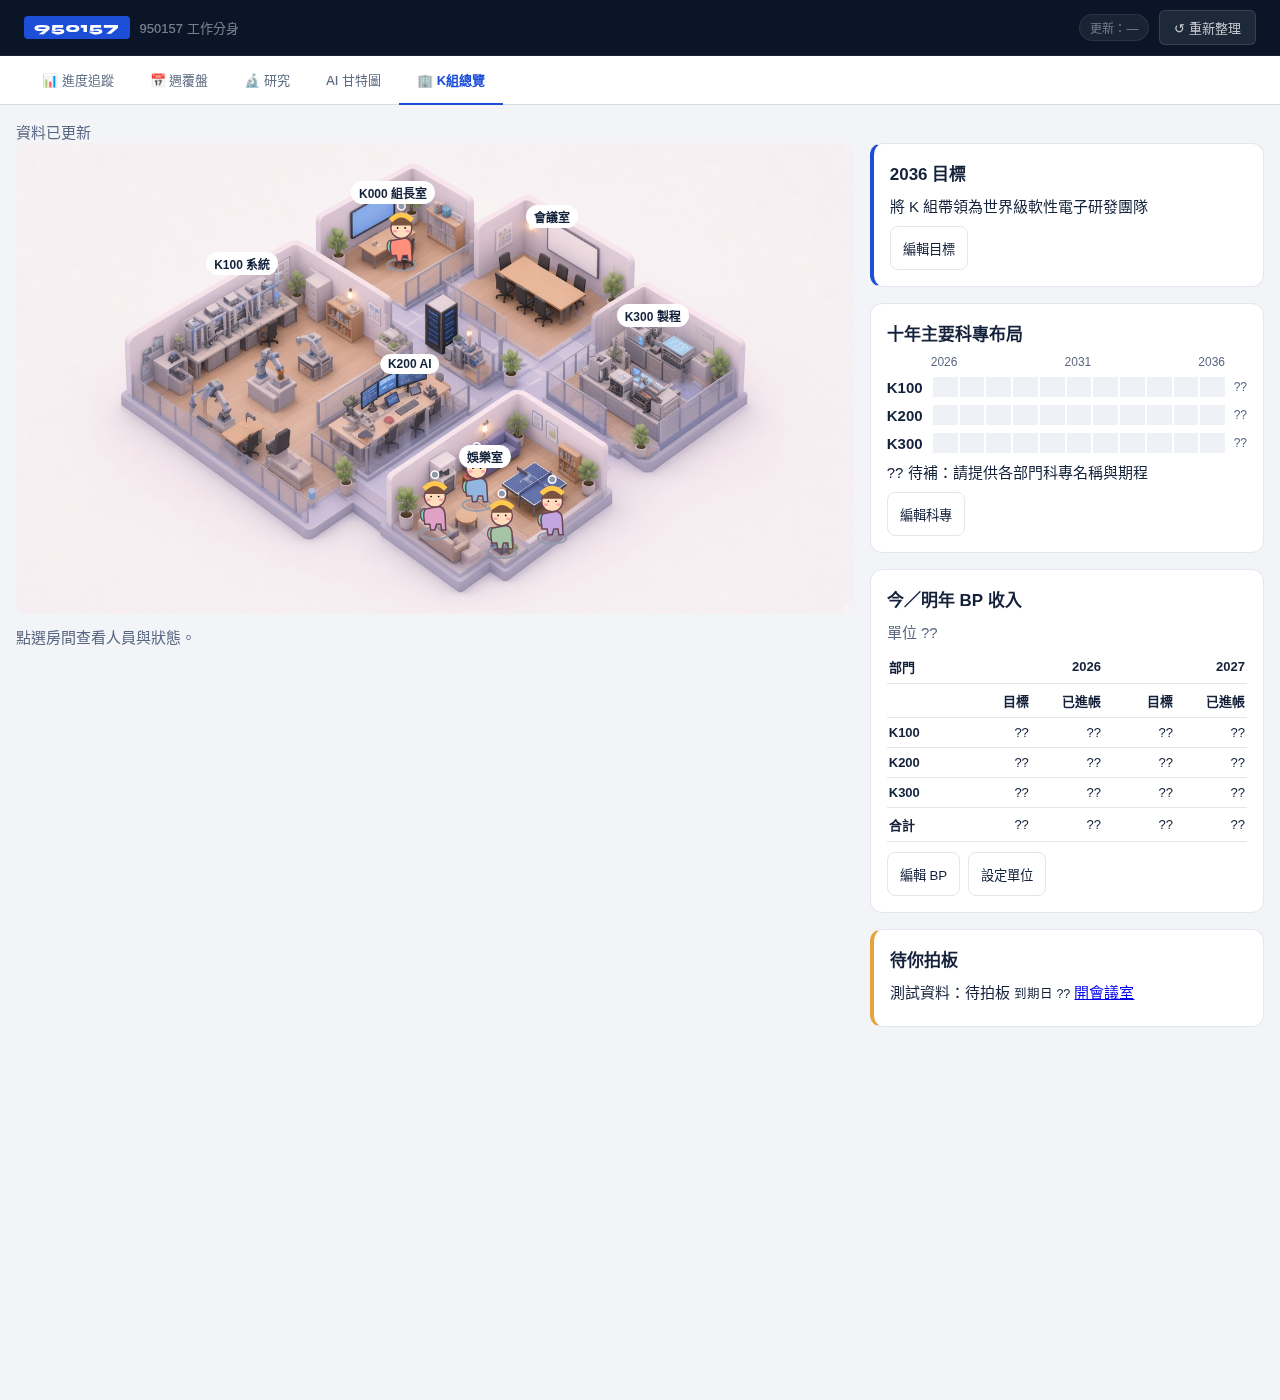
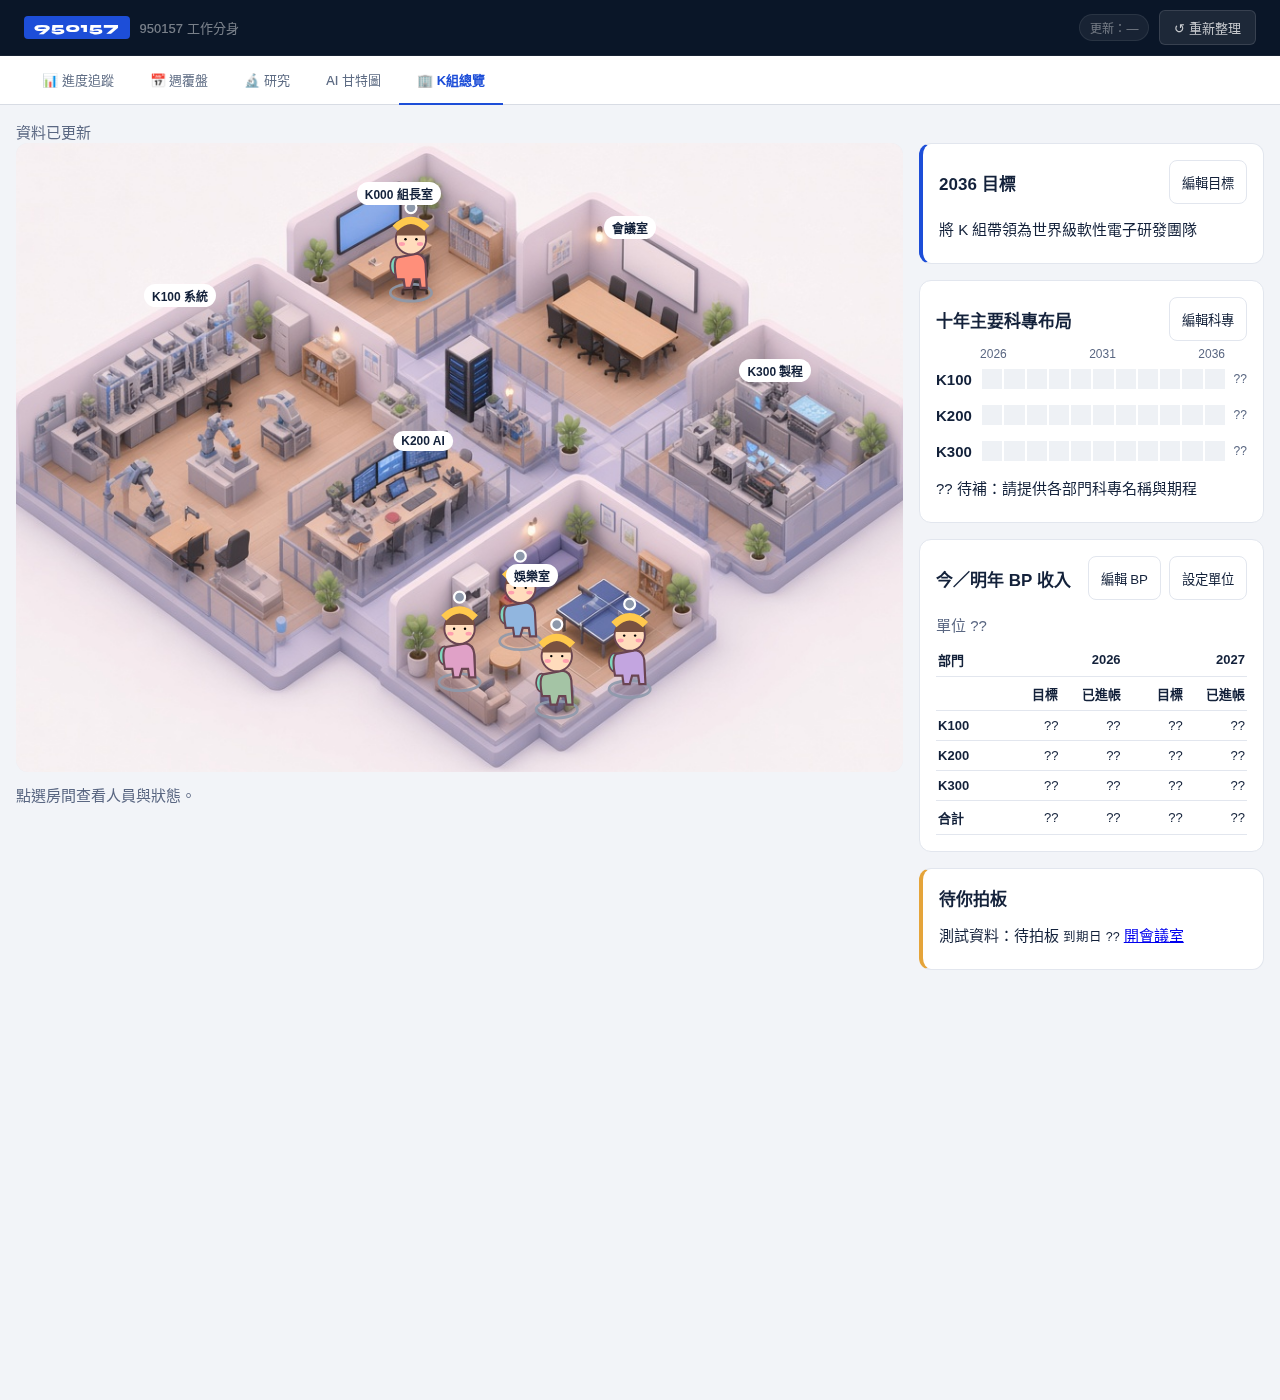
K組總覽頁：放大辦公室（裁掉底圖空白、左欄 72%、卡片按鈕移到標題列、手機滿寬）

diff --git a/public/koffice-950157.css b/public/koffice-950157.css
@@ -1,7 +1,7 @@
 #tab-koffice{overflow:auto;background:var(--hy-bg);color:var(--hy-ink)}
 #koffice{padding:16px;font-size:var(--hy-fs-body)}
-.ko-grid{display:grid;grid-template-columns:minmax(0,68fr) minmax(320px,32fr);gap:var(--hy-gap);align-items:start}
-.ko-office{min-width:0}.ko-stage{position:relative;width:100%;aspect-ratio:16/9;overflow:hidden;border-radius:var(--hy-r-card);background:var(--hy-sunken)}
+.ko-grid{display:grid;grid-template-columns:minmax(0,72fr) minmax(320px,28fr);gap:var(--hy-gap);align-items:start}
+.ko-office{min-width:0}.ko-stage{position:relative;width:100%;overflow:hidden;border-radius:var(--hy-r-card);background:var(--hy-sunken)}
 .ko-stage img{width:100%;height:100%;object-fit:contain;display:block}.ko-overlay{position:absolute;inset:0;width:100%;height:100%}
 .ko-room{fill:transparent;stroke:transparent;cursor:pointer;outline:none}.ko-room:focus-visible,.ko-room:hover{stroke:var(--hy-brand);stroke-width:.5;fill:var(--hy-ai-bg);fill-opacity:.18}
 .ko-label{position:absolute;transform:translate(-50%,-100%);border-radius:var(--hy-r-pill);padding:3px 8px;background:var(--hy-surface);color:var(--hy-ink);font-size:12px;font-weight:700;white-space:nowrap;pointer-events:none}
@@ -13,3 +13,6 @@
 @media(max-width:639px){#koffice{padding:8px}.ko-grid,.ko-cards{display:contents}.ko-grid{display:flex;flex-direction:column}.ko-office{order:2;width:100%}.ko-cards{display:contents}.ko-decisions{order:1}.ko-goal{order:3}.ko-programs{order:4}.ko-bp-card{order:5}.ko-card{width:100%}.ko-label{font-size:11px;padding:2px 5px}.ko-timeline{grid-template-columns:38px repeat(11,minmax(0,1fr)) 20px}.ko-ticks{padding-left:38px}.ko-bp{font-size:12px}}
 
 .ko-tl-end{font-size:var(--hy-fs-tiny);color:var(--hy-muted);text-align:right}
+.ko-canvas{position:absolute}
+@media (max-width:639px){.ko-stage{width:calc(100% + 16px);margin:0 -8px;border-radius:0}.ko-person-detail{padding:0 4px}}
+@media (min-width:1024px){.ko-card{display:grid;grid-template-columns:minmax(0,1fr) auto;column-gap:8px;align-items:start}.ko-card>*{grid-column:1/-1}.ko-card>h2{grid-column:1;grid-row:1;align-self:center;margin:0 0 6px}.ko-card>.ko-actions{grid-column:2;grid-row:1;margin:0 0 6px;flex-wrap:nowrap}}
